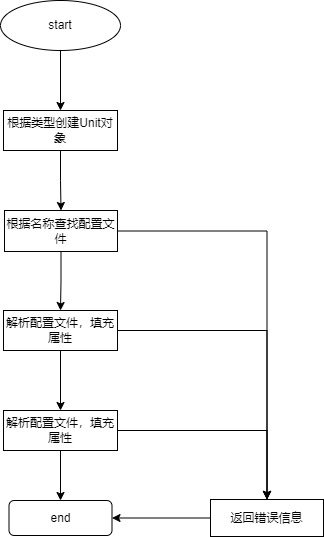
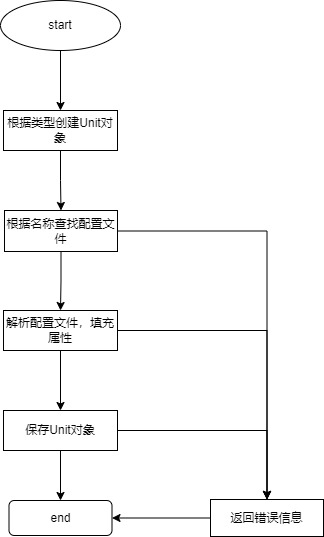
update unit manger design doc

Changed region(s): [[0.0, 0.7747, 0.3704, 0.8343]]

diff --git a/docs/src/unitManger.md b/docs/src/unitManger.md
@@ -70,7 +70,9 @@ unit配置定义包含三个部分，具体描述如下：
 [Install] Unit安装时（安装概念，见后续备注）的配置项
  ```
 
-#### unit对象加载
+unit配置使用toml格式，通过对toml文件解析，填充到具体unit对象中，unit加载流程见下一章节
+
+#### unit的加载
 
    unit对象加载是所有Unit执行后续的动作的前提，通过解析Unit的对应的配置文件，生成Unit对象，并加载到sysmaster内部，具体流程如下：
 
@@ -83,3 +85,7 @@ unit对象包含unit以及子Unit，对象关系如下图：
 ![unit对象关系](../res/unit_c_diagram.jpg#pic_center)
 
 unit为unitManger管理的单元，subUnit为子unit，每种类型都要求实现unitObj接口，不同类型有不同的的实现，通过Plugin框架来创建。
+
+#### unit对象的存储
+
+每个配置文件，解析完成之后，会生成一个unit对象，unit全局唯一，同一保存到datastore中，datastore使用hashmap，并且使用name作为key来保存unit对象。使用过程中，unit使用引用的方式更新数据，当前sysmater使用的是单线程，因此不考虑数据并发问题。

diff --git a/docs/src/chapter_1.md b/docs/src/chapter_1.md
@@ -22,4 +22,9 @@ Sysmaster核心架构包含UnitManager，DataStore，JobEngine，EventEngine，P
 
 ![avatar](../res/architecture.jpg)
 
-UnitManager: 管理Unit，从配置文件到Unit对象的加载，以及subUnit类的加载
+sysmaster-init：1号进程，保持简单，只盲等待，并定期监听sysmaster-core的心跳，巡检core的状态。
+unitManager: 管理Unit，从配置文件到Unit对象的加载，以及subUnit类的加载
+dataStore：保存系统中所有加载的unit对象，实时更新状态
+eventEngine：事件驱动引擎，接收外部事件，驱动unit状态机
+jobEngine：工作任务引擎，unit状态的变化，通过job驱动，job支持事务的概念，支持会滚机制，保障unit状态迁移的原子性。
+potoServer：监听接收 pctrl的命令，执行对应的unit动作。
